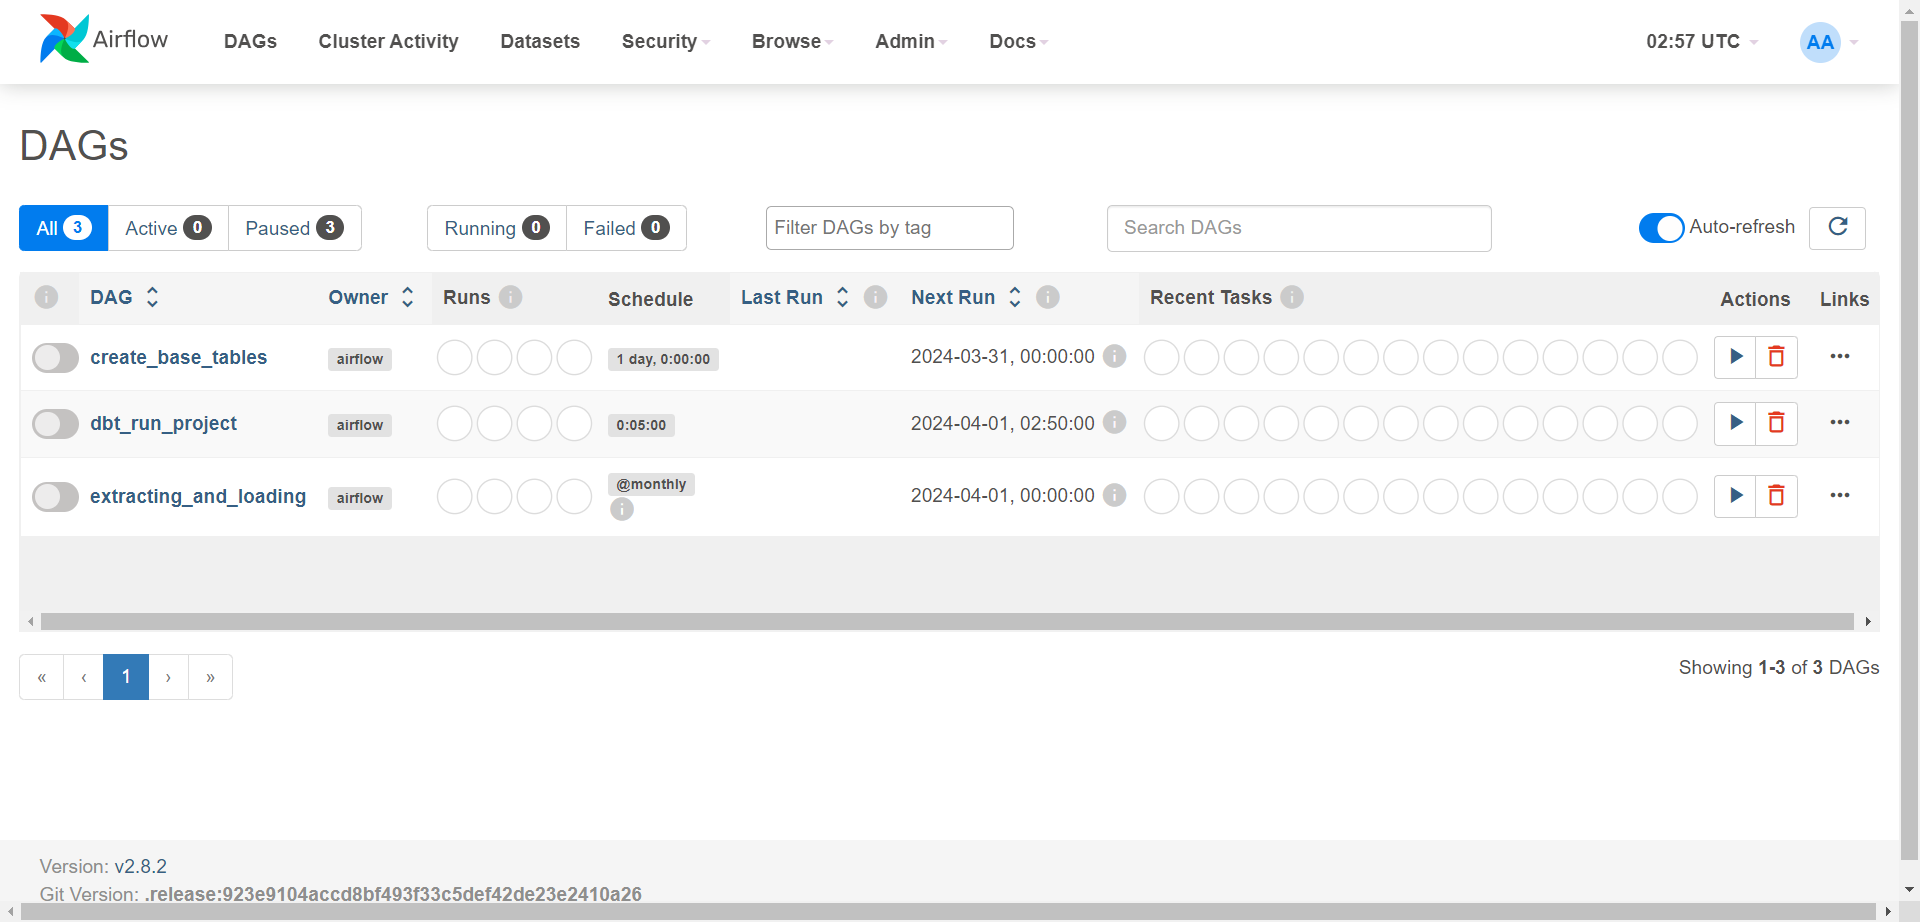
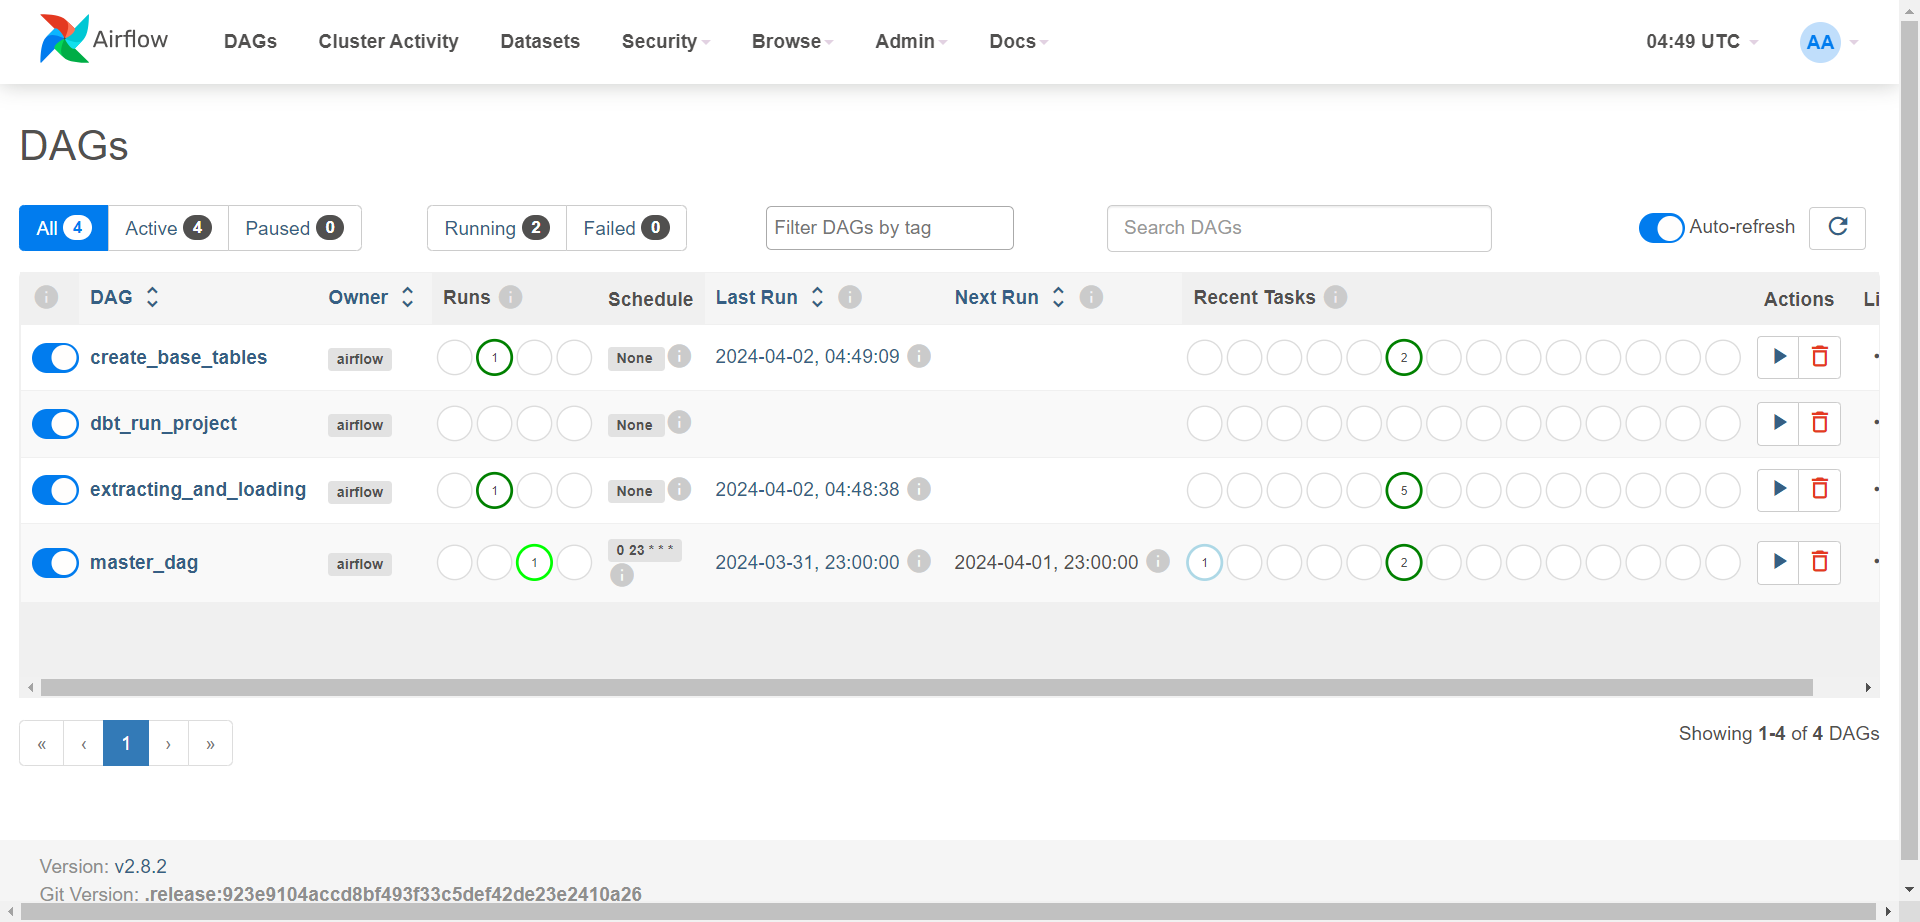
buf fixes on dags, master dag creation and updating README file

diff --git a/airflow/dags/run_dbt_container.py b/airflow/dags/run_dbt_container.py
@@ -1,3 +1,4 @@
+import os
 from datetime import datetime, timedelta
 from airflow import DAG
 from airflow.operators.bash_operator import BashOperator
@@ -6,13 +7,17 @@ from docker.types import Mount
 
 default_args = {
 'owner'                 : 'airflow',
-'description'           : 'Use of the DockerOperator',
+'description'           : 'Run dbt project to build fact tables',
 'start_date'            : datetime(2021, 5, 1),
 'retries'               : 1,
 'retry_delay'           : timedelta(minutes=5)
 }
 
-with DAG('dbt_run_project', default_args=default_args, schedule_interval=timedelta(minutes=5), catchup=False) as dag:
+with DAG('dbt_run_project', 
+         default_args=default_args, 
+         #schedule_interval='@monthly',
+         schedule_interval=None,
+         catchup=False) as dag:
 
     t1 = BashOperator(
         task_id='print_current_date',
@@ -29,9 +34,15 @@ with DAG('dbt_run_project', default_args=default_args, schedule_interval=timedel
         command="run --project-dir /usr/app/dbt/capital_bikeshare",
         docker_url="tcp://docker-proxy:2375",
         network_mode="bridge",
+        environment={
+            'GOOGLE_CLOUD_PROJECT':os.getenv("PROJECT_ID"),
+            'PROJECT_ID':os.getenv("PROJECT_ID"),
+            'BIGQUERY_DATASET':os.getenv("DATASET_NAME")
+        },
         mounts = [
-            Mount(source="/dbt/projects", target="/usr/app", type="bind"),
-            Mount(source="/dbt/config",target="/root/.dbt",type="bind")
+            Mount(source=os.getenv("DBT_PROJ_DIR"), target="/usr/app", type="bind"),
+            Mount(source=os.getenv("DBT_CONFIG_PATH"),target="/root/.dbt",type="bind"),
+            Mount(source=os.getenv("GCP_SA_KEY"),target="/root/.google/credentials/google_credentials.json",type="bind")
             ],
         mount_tmp_dir = False
         )

diff --git a/airflow/dags/load_datalake.py b/airflow/dags/load_datalake.py
@@ -2,7 +2,7 @@ import os
 import pandas as pd
 import requests
 import zipfile
-from datetime import timedelta
+from datetime import timedelta, datetime
 from airflow import DAG
 from airflow.models import Variable
 from airflow.operators.python_operator import PythonOperator
@@ -15,7 +15,11 @@ def determine_year_month(**kwargs):
     try:
         year_month = Variable.get("year_month")
     except KeyError:
-        year_month = kwargs['ds_nodash'][:6]  # Use the execution date if the variable is not set
+        execution_date = datetime.strptime(kwargs['ds_nodash'], "%Y%m%d")
+        first_day_of_current_month = execution_date.replace(day=1)
+        last_day_of_previous_month = first_day_of_current_month - timedelta(days=1)
+        year_month = last_day_of_previous_month.strftime("%Y%m")
+        #year_month = kwargs['ds_nodash'][:6]  # Use the execution date if the variable is not set
     return year_month
 
 def download_zip_file(year_month, destination_folder='data-downloads', **kwargs):
@@ -87,7 +91,13 @@ default_args = {
     'retry_delay': timedelta(minutes=5),
 }
 
-with DAG('extracting_and_loading', default_args=default_args, schedule_interval='@monthly', catchup=False) as dag:
+with DAG('extracting_and_loading', 
+         default_args=default_args, 
+         description='Download dataset from bucket and load to Cloud Storage',
+         #schedule_interval='@monthly', 
+         schedule_interval=None,
+         catchup=False) as dag:
+    
     determine_year_month_task = PythonOperator(
         task_id='determine_year_month',
         python_callable=determine_year_month,

diff --git a/airflow/dags/master_dag.py b/airflow/dags/master_dag.py
@@ -1,0 +1,42 @@
+from airflow import DAG
+from airflow.operators.dagrun_operator import TriggerDagRunOperator
+from datetime import datetime, timedelta
+
+default_args = {
+    'owner': 'airflow',
+    'depends_on_past': False,
+    'start_date': datetime(2023, 1, 1),
+    'email_on_failure': False,
+    'email_on_retry': False,
+    'retries': 1,
+    'retry_delay': timedelta(minutes=5),
+}
+
+with DAG('master_dag',
+         default_args=default_args,
+         #schedule_interval=timedelta(days=1),
+         schedule_interval='0 23 * * *',
+         catchup=False) as dag:
+
+    trigger_load_datalake = TriggerDagRunOperator(
+        task_id='trigger_load_datalake',
+        trigger_dag_id='extracting_and_loading', 
+        wait_for_completion=True,
+        poke_interval=30,
+    )
+
+    trigger_create_tables = TriggerDagRunOperator(
+        task_id='trigger_create_tables',
+        trigger_dag_id='create_base_tables',
+        wait_for_completion=True,
+        poke_interval=30, 
+    )
+
+    trigger_run_dbt_container = TriggerDagRunOperator(
+        task_id='trigger_run_dbt_container',
+        trigger_dag_id='dbt_run_project', 
+        wait_for_completion=True,
+        poke_interval=30,
+    )
+
+    trigger_load_datalake >> trigger_create_tables >> trigger_run_dbt_container

diff --git a/airflow/dags/create_tables_bq.py b/airflow/dags/create_tables_bq.py
@@ -22,8 +22,9 @@ PATH_TO_FILES = 'capital-bikeshare-data/*.csv'
 
 with DAG('create_base_tables',
          default_args=default_args,
-         description='Crate a external table in BigQuery from a folder into a Bucket and then a partitioned table based.',
-         schedule_interval=timedelta(days=1),
+         description='Create a external table in BigQuery from a folder into a Bucket and then a partitioned table based.',
+         #schedule_interval='@monthly',
+         schedule_interval=None,
          catchup=False) as dag:
 
     create_external_table = BigQueryInsertJobOperator(

diff --git a/README.md b/README.md
@@ -93,7 +93,7 @@ Setting up the data engineering environment locally involves several key steps t
 
     To install Portainer, follow the instructions at: [Portainer Installation Documentation](https://docs.portainer.io/start/install-ce/server/docker).
 
-7. **Access Airflow**: Once the stack is running, open a web browser and navigate to `http://localhost:8080` to access the Airflow web interface. Here you should see the DAGs deployed and ready for execution.
+7. **Access Airflow**: Once the stack is running, open a web browser and navigate to `http://localhost:8080` to access the Airflow web interface. Here you should see the DAGs already running.
 
     ![Airflow Webserver](images/Airflow_Webserver.png)
 
